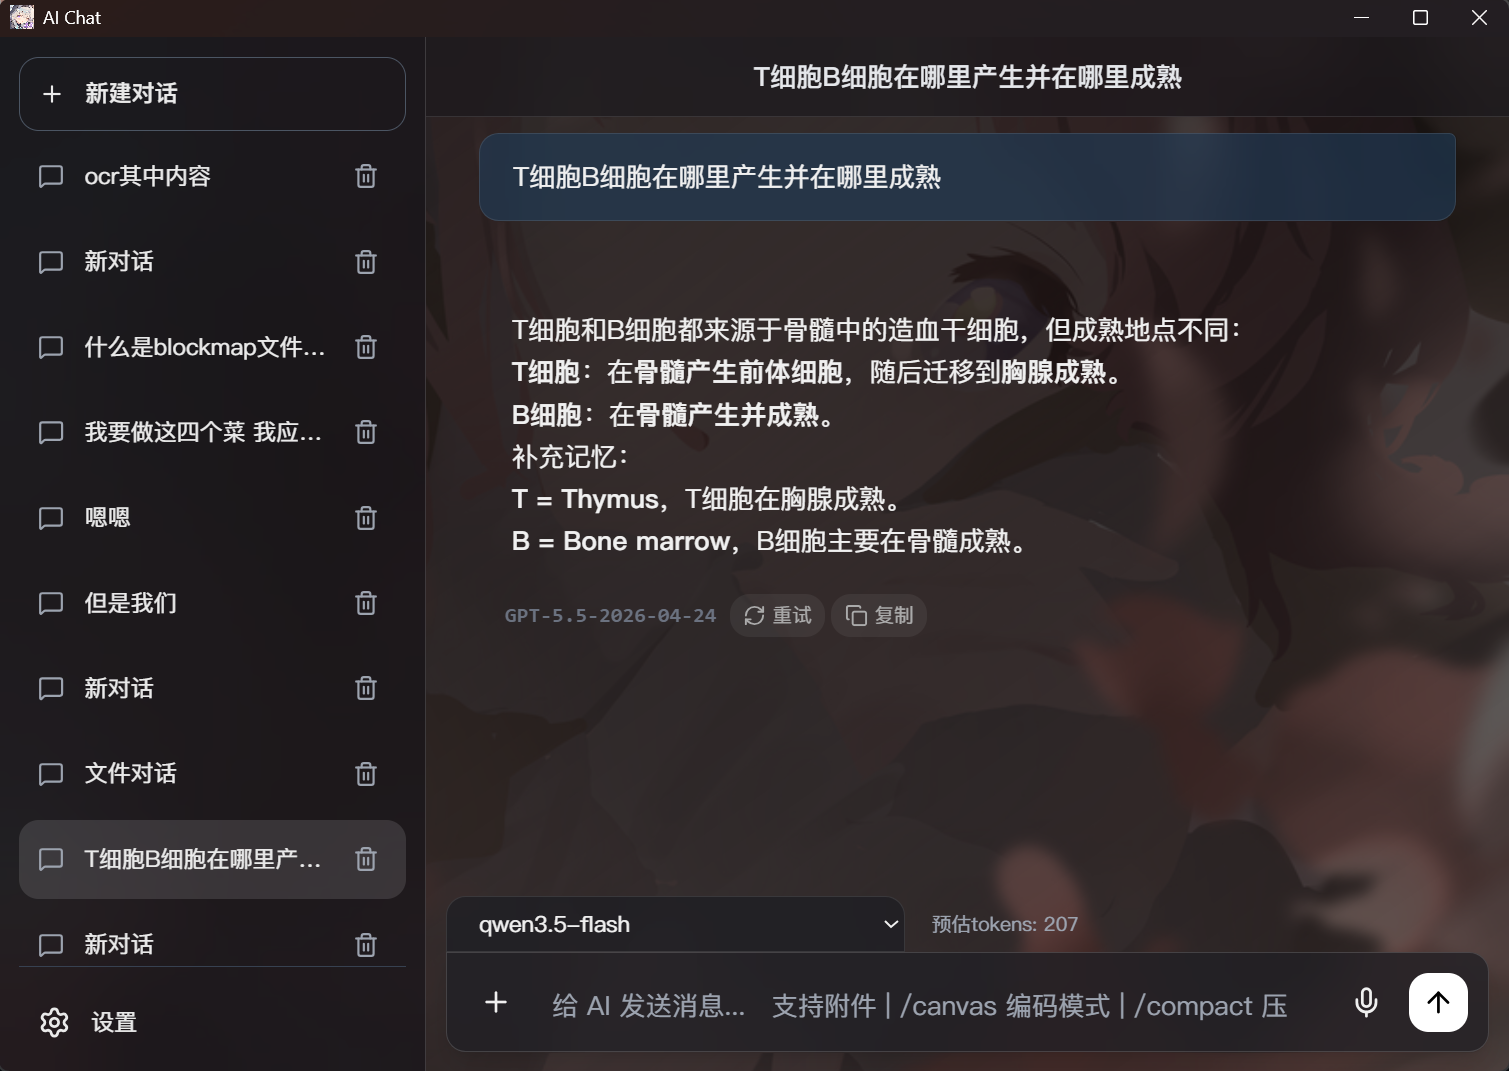
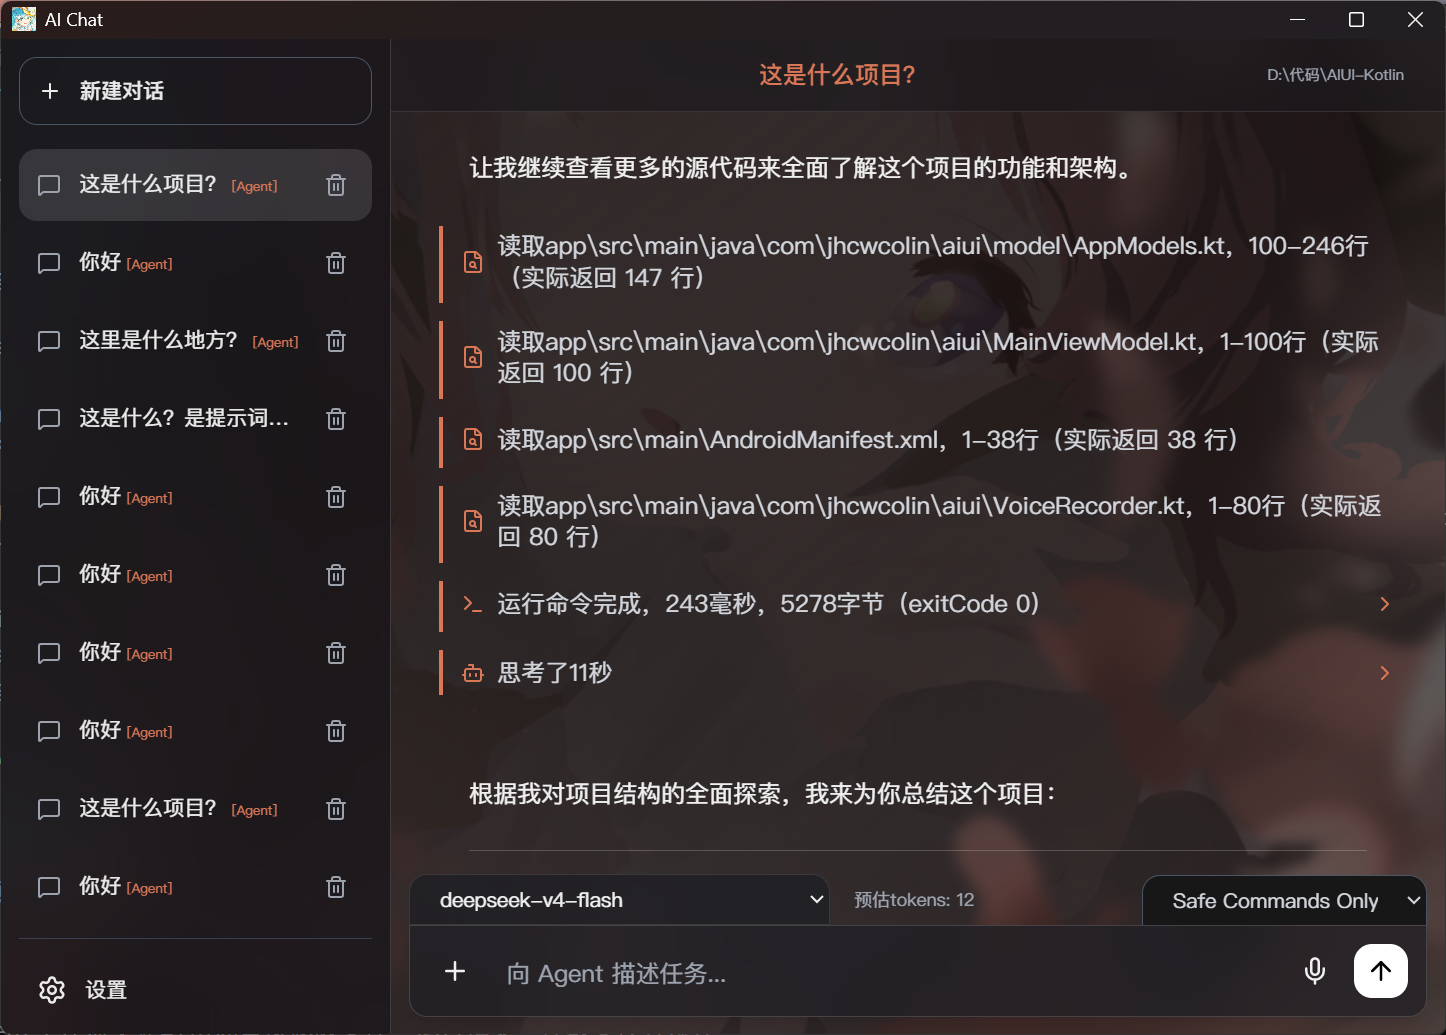
readmeaaa

diff --git a/README.md b/README.md
@@ -4,14 +4,14 @@
 
 ![preview](screenshot/preview.png)
 
-### Your Next Gen Vibe Coding Toolkit
-### Free Yourself with AGENT
+# Your Next Gen Vibe Coding Toolkit
+# Free Yourself with AGENT
 
 一个绑定了令牌后即可像大型AI官网那样Agent服务、文字畅聊、语音聊天、共享屏幕、修改代码的前端AI聊天框架。不依赖任何realtime模型，用http调用方法配合STT、TTS、VAD、预设语音等技术实现实时功能。
 
 [![License](https://img.shields.io/badge/license-MIT-green)](LICENSE)
 [![Version](https://img.shields.io/badge/version-V7.0.0_Release-blue)]()
-[![Agent](https://img.shields.io/badge/Agent-Claude-f5f0e6)]()
+[![Agent](https://img.shields.io/badge/Agent-AVALIABLE-f5f0e6)]()
 
 </div>
 
